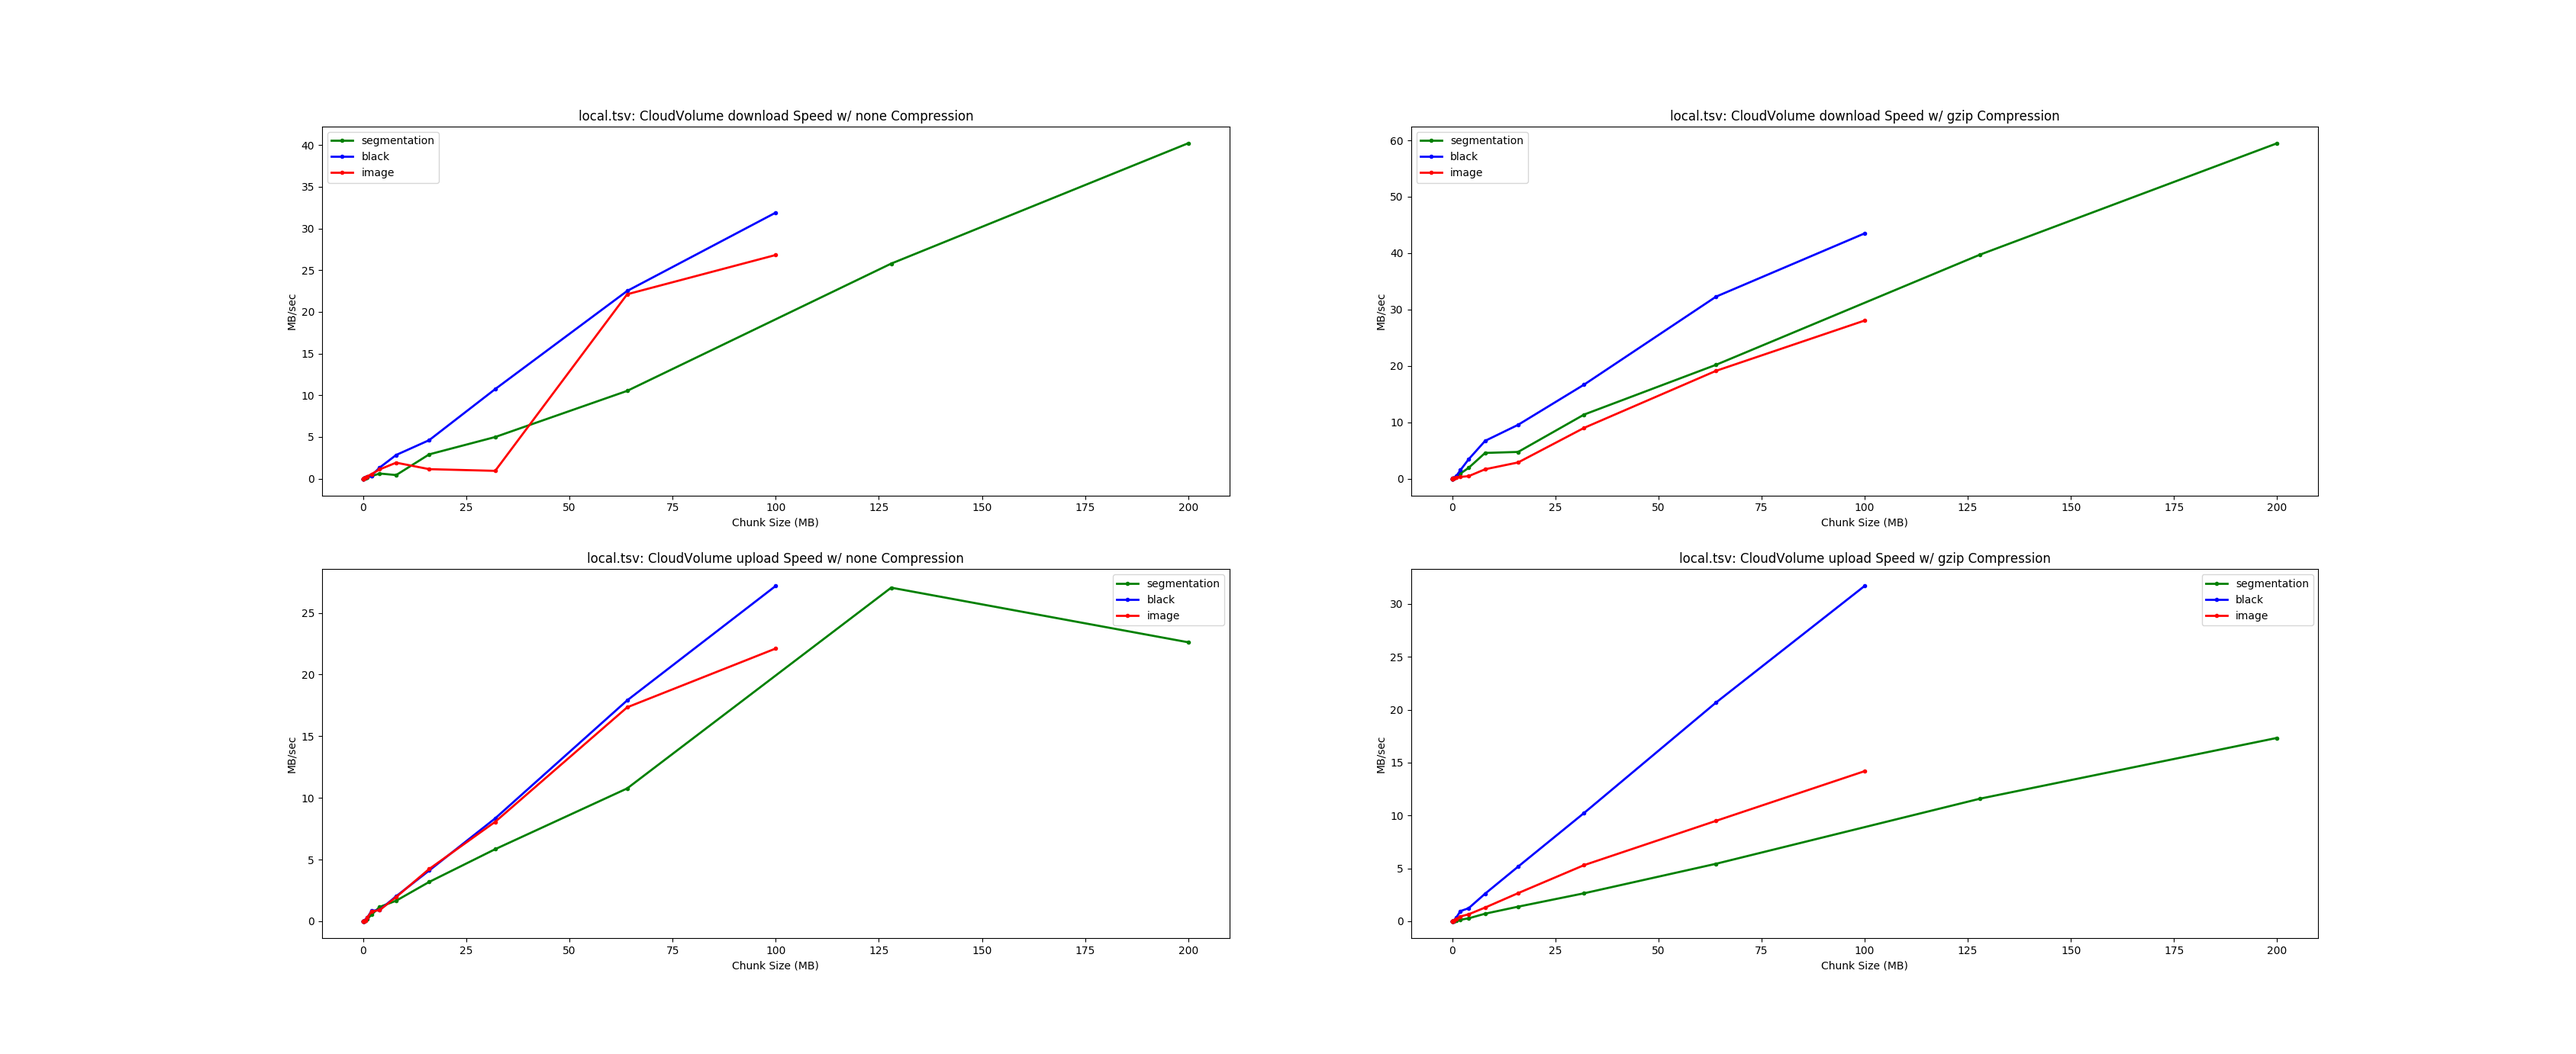
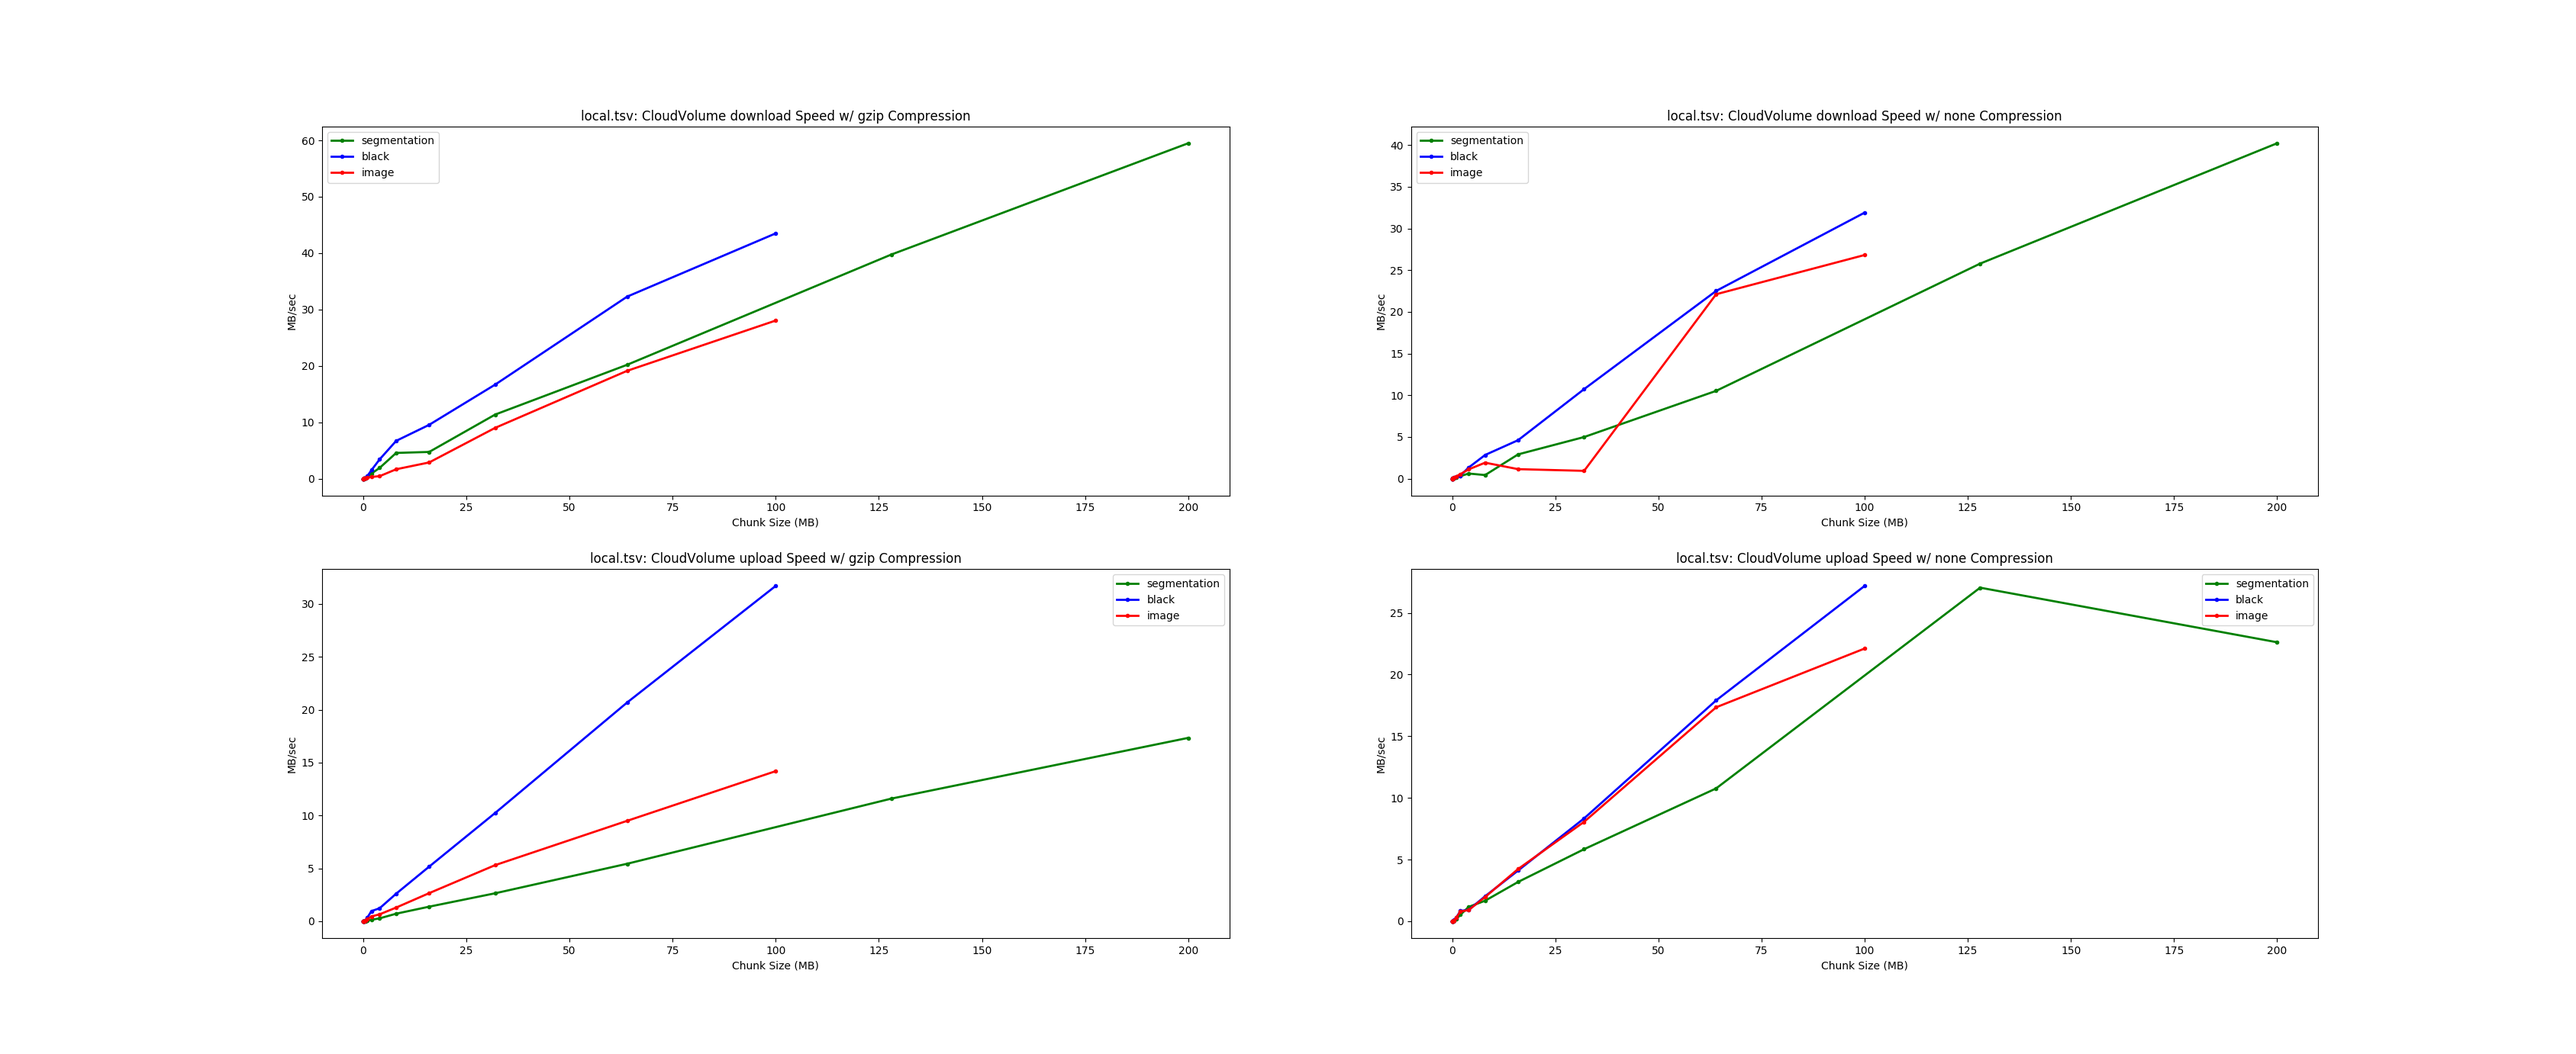
feat: sorted plots for benchmark

diff --git a/benchmarks/plot.py b/benchmarks/plot.py
@@ -31,10 +31,10 @@ styles = {
 
 
 index = 0
-for direction in stats.keys():
+for direction in sorted(stats.keys()):
 	direxpr = stats[direction]
 
-	for compress in direxpr.keys():
+	for compress in sorted(direxpr.keys()):
 		imageexper = direxpr[compress]
 		index += 1
 
@@ -49,8 +49,7 @@ for direction in stats.keys():
 		for imgtype in imageexper.keys():
 			style = styles[imgtype]
 			experiment = imageexper[imgtype]
-			xdata = [ float(mb) for mb in experiment.keys() ]
-			xdata.sort()
+			xdata = sorted([ float(mb) for mb in experiment.keys() ])
 			ydata = [ float(experiment[mb]) for mb in xdata ]
 			line = plt.plot(xdata, ydata, style, linestyle='-', linewidth=2)
 			lines.append(line)
